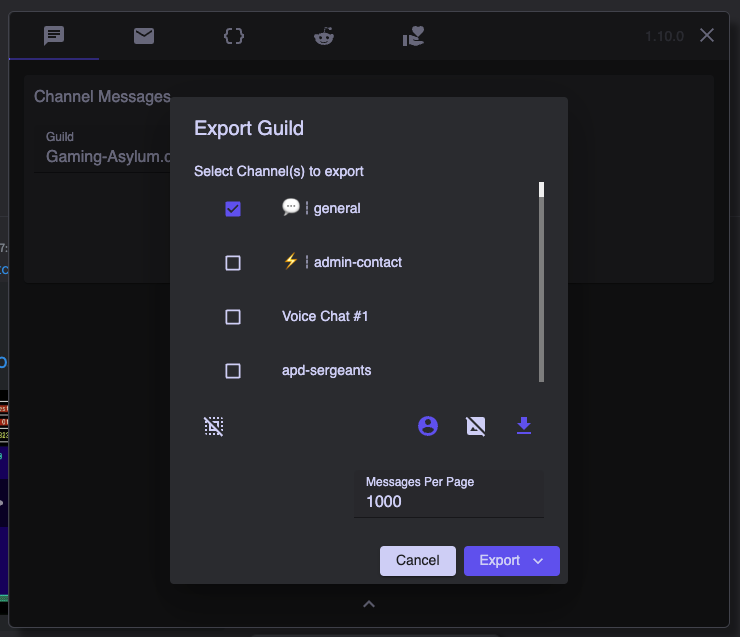
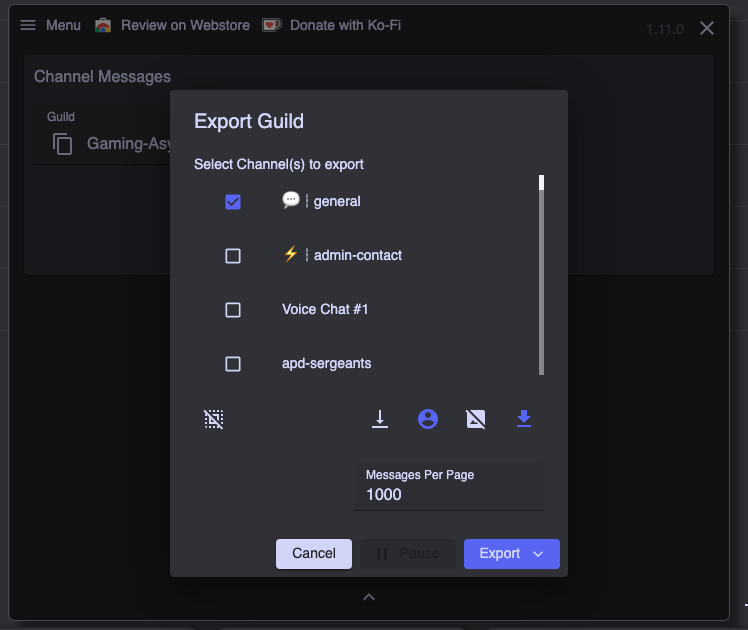
Bump version, update screenshots

diff --git a/src/components/DiscrubDialog/DiscrubDialog.jsx b/src/components/DiscrubDialog/DiscrubDialog.jsx
@@ -118,7 +118,7 @@ function DiscrubDialog() {
           justifyContent="center"
           spacing={1}
         >
-          <Typography variant="body2">1.10.18</Typography>
+          <Typography variant="body2">1.11.0</Typography>
         </Stack>
       </Box>
       <CloseWindowButton />
